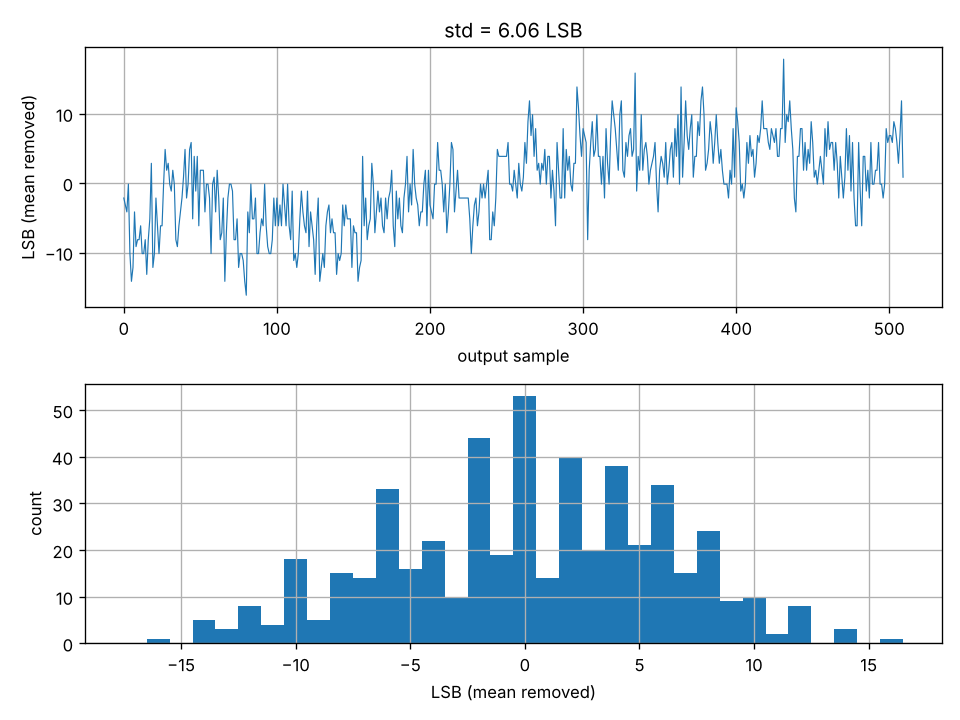
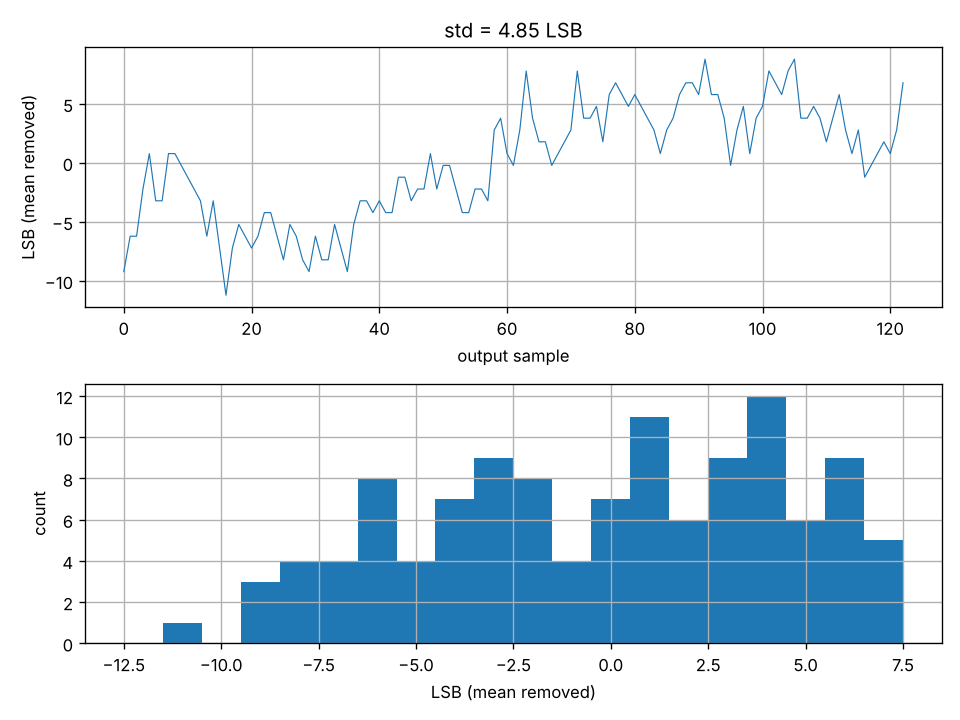
noisemean.py: default OSR 256
Claude-Session: https://claude.ai/code/session_01Y3JJ4xf97M23KyxRZanrVn

diff --git a/noisemean.py b/noisemean.py
@@ -1,7 +1,7 @@
 #!/usr/bin/env python3
 """Python port of noisemean.m: noise (in LSB) of the 1-bit DSM ADC at fixed input.
 
-  python noisemean.py [meannoise.txt] [--fs 12.288e6] [--osr 64] [--vth 0.9] [--lsb-fs 32768]
+  python noisemean.py [meannoise.txt] [--fs 12.288e6] [--osr 256] [--vth 0.9] [--lsb-fs 32768]
 
 meannoise.txt : 1-bit modulator output (0 / 1.8 V), one sample per line, rate fs.
 Decimation    : sinc3 (3 integrators @fs, decimate by OSR, 3 combs), same as deci_hspice.mdl.
@@ -27,7 +27,7 @@ def main():
     p = argparse.ArgumentParser(description=__doc__, formatter_class=argparse.RawTextHelpFormatter)
     p.add_argument("file", nargs="?", default="meannoise.txt")
     p.add_argument("--fs", type=float, default=6144000 * 2)
-    p.add_argument("--osr", type=int, default=64)
+    p.add_argument("--osr", type=int, default=256)
     p.add_argument("--vth", type=float, default=0.9, help="1-bit slicing threshold [V]")
     p.add_argument("--lsb-fs", type=float, default=32768, help="LSBs per full scale (+/-1)")
     p.add_argument("--vfsd", type=float, default=1.5, help="differential full scale [V]")
